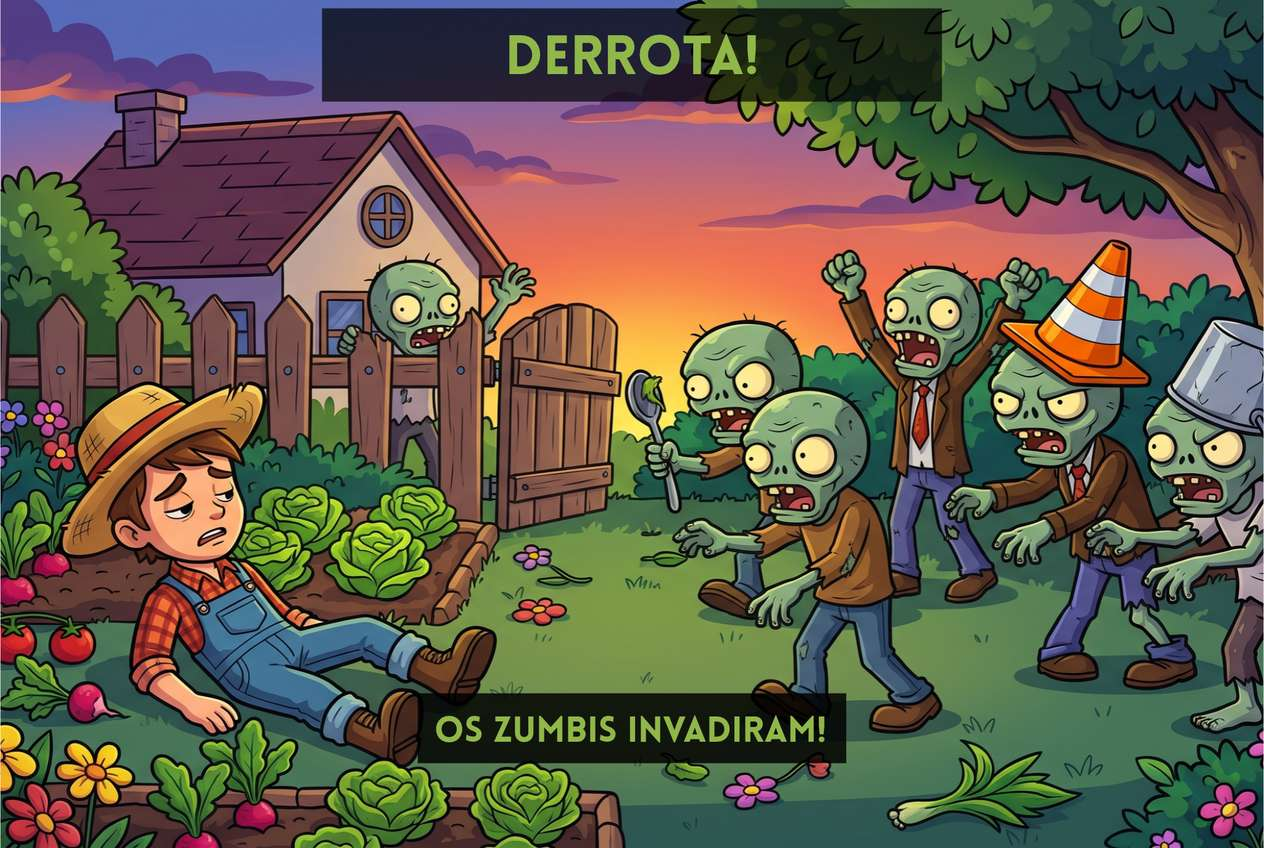
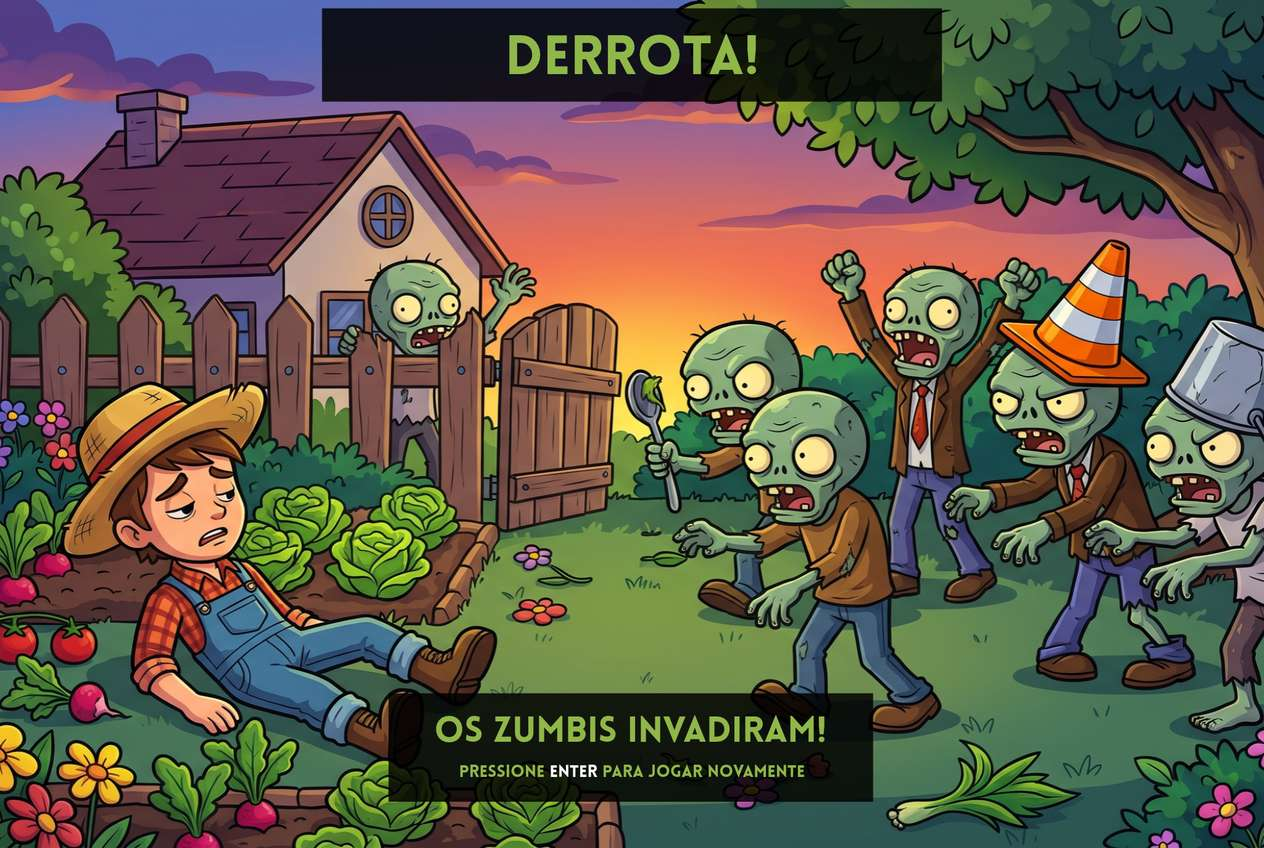
reinicia jogo ao clicar enter depois de terminar

diff --git a/TelaInicial.java b/TelaInicial.java
@@ -19,20 +19,9 @@ public class TelaInicial extends TelaBase
         super("telainicial.jpg"); 
     }
     
-    //sobreescrita do método act do próprio greenfoot
-    @Override
     public void act(){
         iniciarJogo();
         irParaInstrucoes();
-    }
-    
-    //identifica o clique da tecla enter e inica jogo
-    public void iniciarJogo(){
-        if(Greenfoot.isKeyDown("enter")){
-            Greenfoot.setWorld(new FaseUm());
-            //Jardineiro jardineiro = new Jardineiro();
-            //Greenfoot.setWorld(new FaseDois(jardineiro));
-        }
     }
     
     //identifica o clique da tecla enter e inica jogo

diff --git a/MundoBase.java b/MundoBase.java
@@ -88,13 +88,11 @@ public class MundoBase extends TelaBase
     public void executarDerrota() {
         musicaDeFundo.stop();
         Greenfoot.setWorld(new TelaDerrota(pontuacao));
-        Greenfoot.stop(); // Para o jogo imediatamente
     }
     
     public void executarVitoria() {
         musicaDeFundo.stop();
         Greenfoot.setWorld(new TelaVitoria(pontuacao));
-        Greenfoot.stop(); // Para o jogo imediatamente
     }
     
     /**

diff --git a/TelaBase.java b/TelaBase.java
@@ -32,4 +32,10 @@ public class TelaBase extends World
         //passa a imagem como fundo para o mundo
         setBackground(fundo);
     }
+    
+    protected void iniciarJogo(){
+        if(Greenfoot.isKeyDown("enter")){
+            Greenfoot.setWorld(new FaseUm());
+        }
+    }
 }

diff --git a/TelaDerrota.java b/TelaDerrota.java
@@ -19,4 +19,8 @@ public class TelaDerrota extends TelaBase
         showText("Pontuação: " + pontuacao, getWidth()/2, getHeight()/4);
         Greenfoot.playSound("derrotado.mp3");
     }
+    
+    public void act(){
+        iniciarJogo();
+    }
 }

diff --git a/TelaVitoria.java b/TelaVitoria.java
@@ -19,4 +19,8 @@ public class TelaVitoria extends TelaBase
         showText("Pontuação: " + pontuacao, getWidth()/2, getHeight()/4);
         Greenfoot.playSound("Vitoria.mp3");
     }
+    
+    public void act(){
+        iniciarJogo();
+    }
 }
